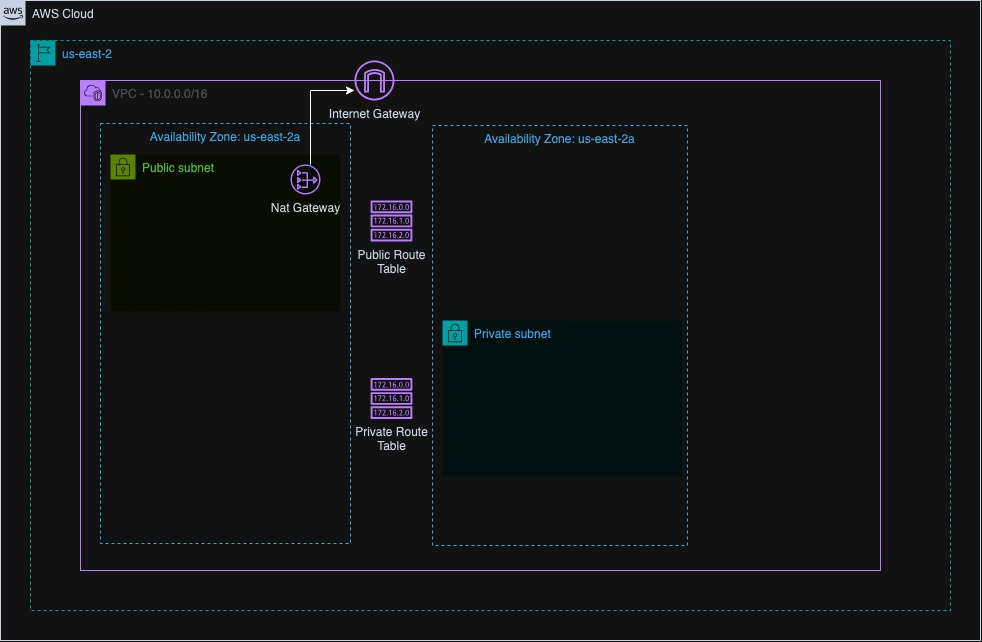
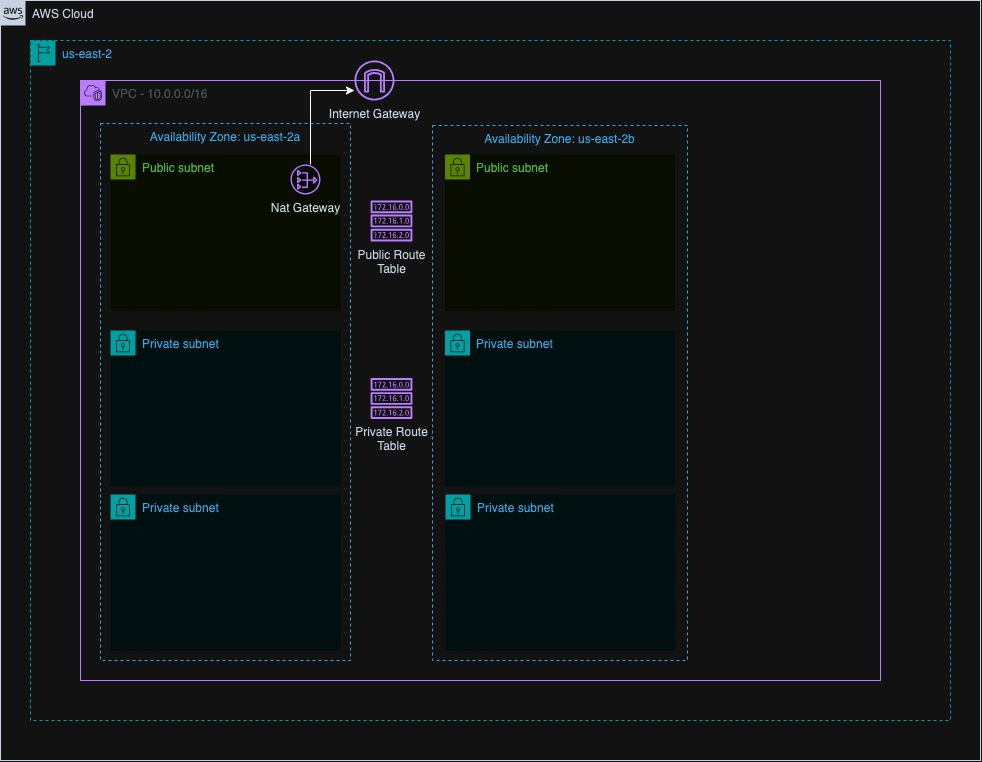
feat(doc): Add documentation about new subnets and update diagram

diff --git a/docs/INFRAESTRUCTURE.md b/docs/INFRAESTRUCTURE.md
@@ -5,4 +5,4 @@ The application is based on a three tier architecture, in the image above, the h
 ![Application Architecture](img/Three-tier-web-app.jpg)
 
 ## Network layer
-it's build with the classic components for an AWS app, starting with a VPC as the main container, with 2 public subnets to host the presentation layer, 4 private subnets to host busines and data layers.
+It's build with the classic components for an AWS app, starting with a VPC as the main container, 2 public subnets to host the presentation layer, 4 private subnets to host busines and data layers, an internet gateway as well as an Nat Gateway.
